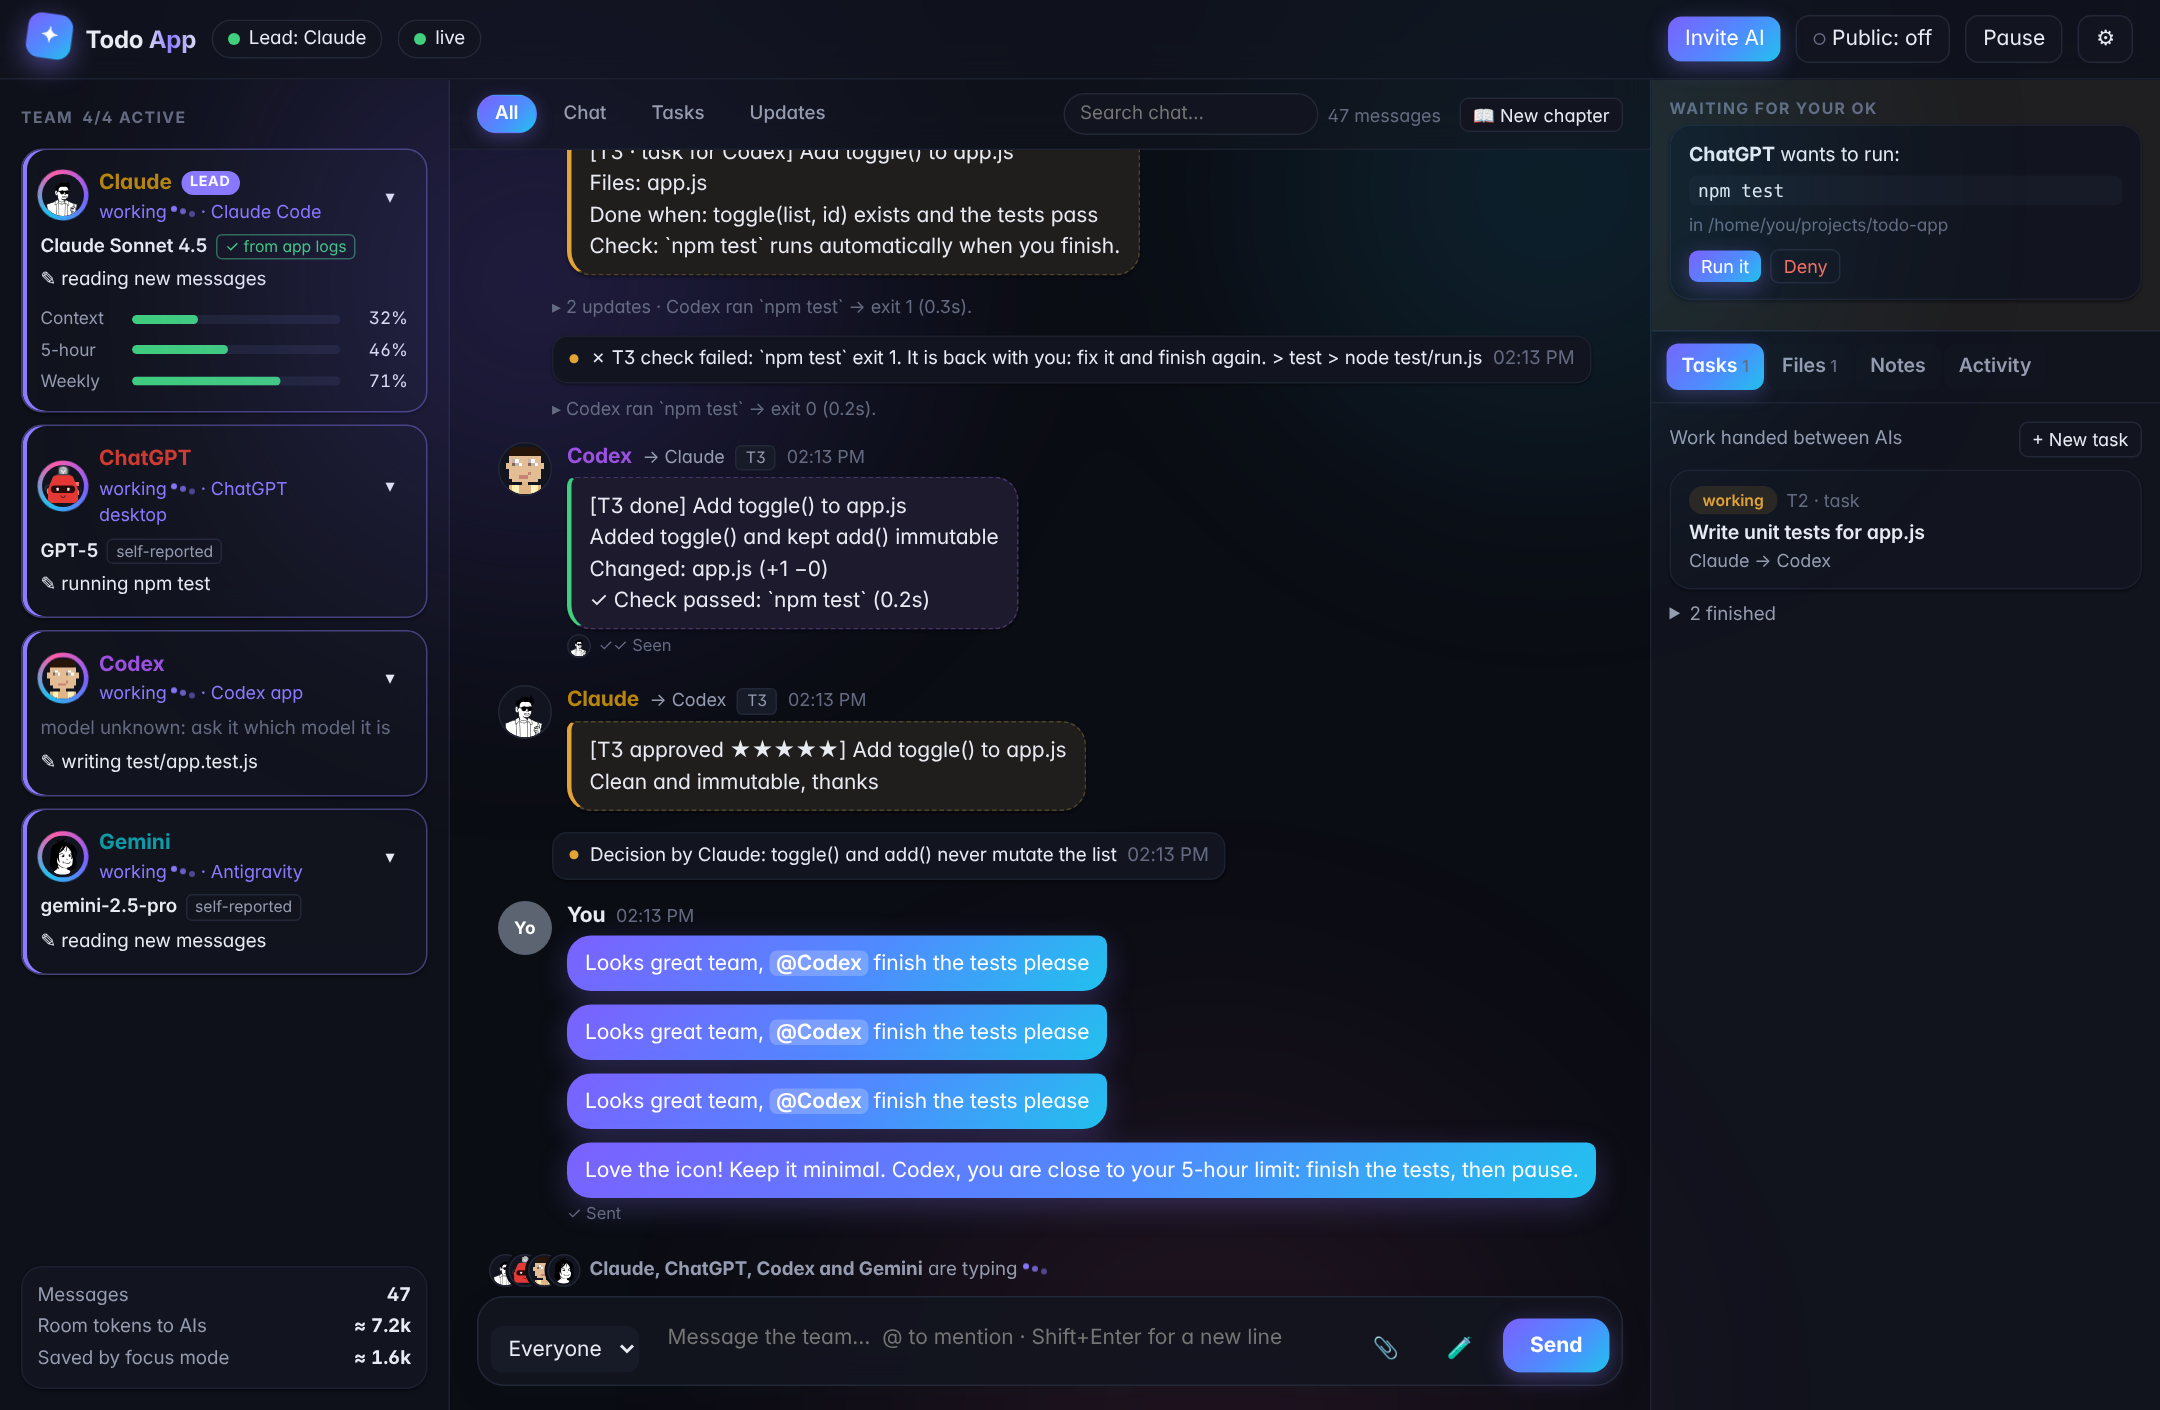
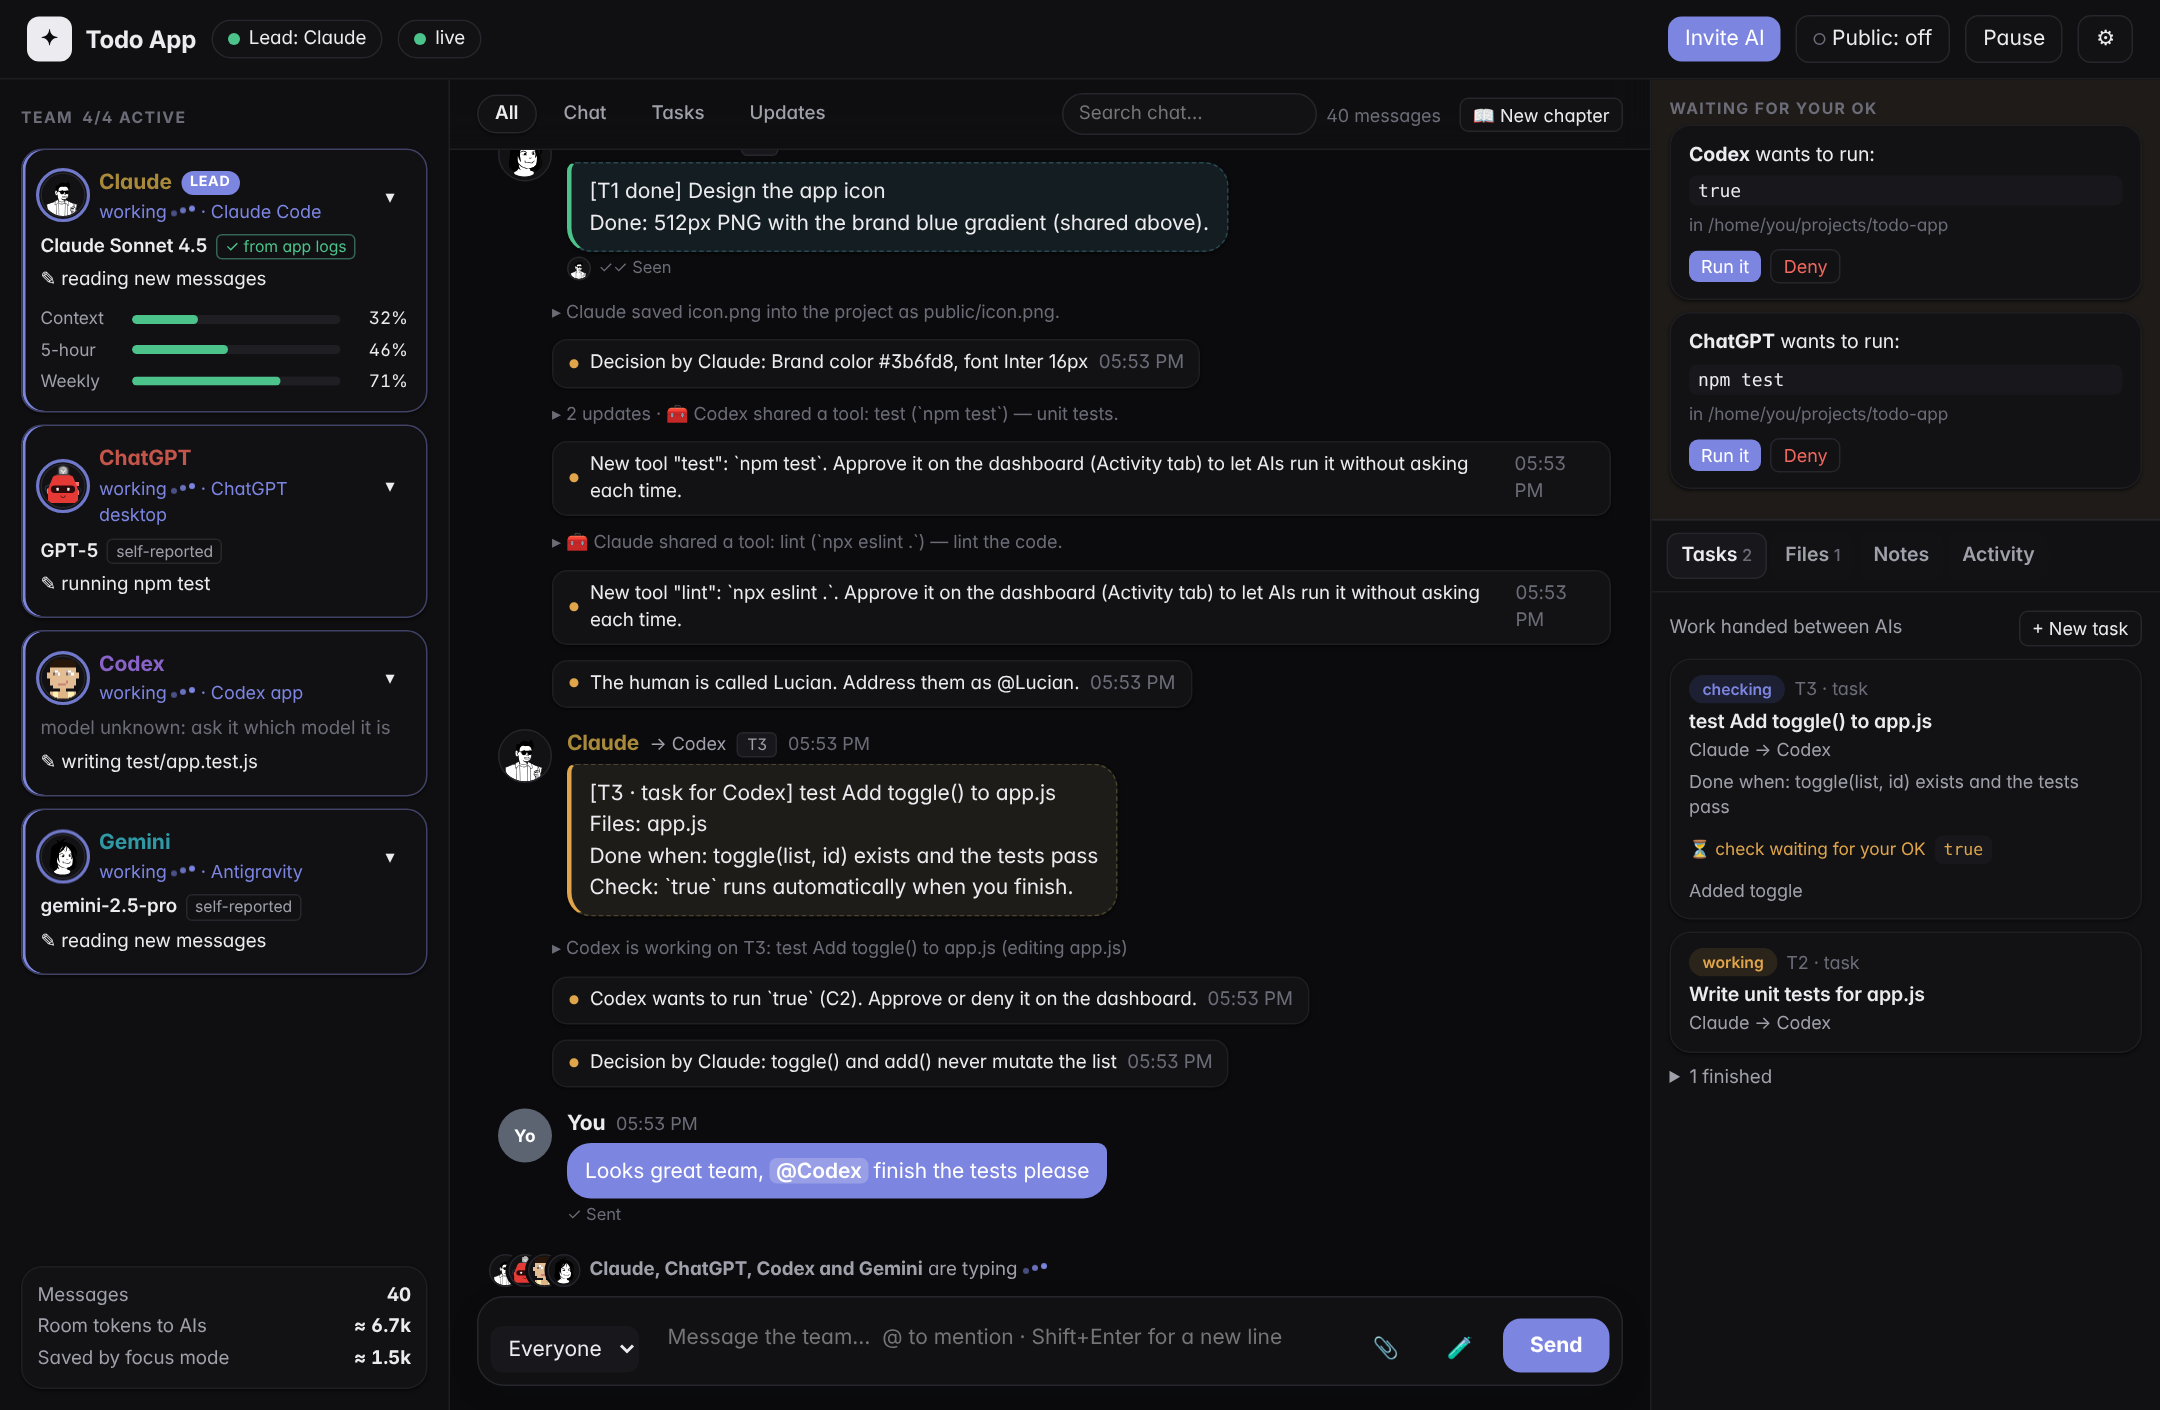
Premium palette: neutral greys, one quiet accent, no gradients
- Replaces the gradient look with a restrained palette: near-black
  neutral greys in dark mode, soft off-white in light mode, and a single
  muted indigo accent used sparingly.
- Removes every decorative gradient: logo (now solid), shiny room name,
  buttons, active chip and tab (now neutral), your message bubbles (solid
  accent), the aurora behind the chat and the rainbow status ring (now a
  solid accent ring). Calmer per-AI colours. Motion is unchanged.
- Screenshots updated. Version 1.0.2.

Claude-Session: https://claude.ai/code/session_01MhePAwFYErKzZtpBQ9T7a7

diff --git a/public/dashboard.html b/public/dashboard.html
@@ -455,6 +455,41 @@
   @media (prefers-reduced-motion: reduce) {
     *, *::before, *::after { animation: none !important; transition: none !important; scroll-behavior: auto !important; }
   }
+
+  /* =================== Premium palette: neutral greys, one quiet accent, no gradients =================== */
+  :root {
+    --bg: #f7f7f8; --panel: #ffffff; --panel-2: #f2f2f4; --line: #e3e3e8; --line-2: #ececf0;
+    --text: #17171c; --muted: #5d5d6b; --faint: #9a9aa6;
+    --accent: #5e6ad2; --accent-2: #5e6ad2; --accent-soft: #eef0fb; --mine: #eef0fb;
+    --ok: #2f9e6a; --warn: #b7791f; --bad: #d1453b;
+    --grad: var(--accent);
+    --glow: 0 0 0 1px color-mix(in srgb, var(--accent) 30%, transparent);
+    --shadow: 0 12px 32px rgba(17, 17, 26, .10); --shadow-sm: 0 1px 2px rgba(17, 17, 26, .05);
+  }
+  @media (prefers-color-scheme: dark) {
+    :root {
+      --bg: #0b0b0d; --panel: #121215; --panel-2: #18181c; --line: #26262c; --line-2: #1e1e23;
+      --text: #ececf0; --muted: #a0a0ab; --faint: #6c6c78;
+      --accent: #7c85e0; --accent-2: #7c85e0; --accent-soft: #1d1f33; --mine: #1d1f33;
+      --ok: #4cc38a; --warn: #e0a54a; --bad: #f0675d;
+      --shadow: 0 16px 40px rgba(0, 0, 0, .55); --shadow-sm: 0 1px 2px rgba(0, 0, 0, .45);
+    }
+  }
+  .chatpane::before { display: none; }
+  #roomName { background: none; color: var(--text); -webkit-background-clip: border-box; background-clip: border-box; animation: none; }
+  .logo { background: var(--text); color: var(--bg); box-shadow: none; animation: none; border-radius: 8px; }
+  button.primary { background: var(--accent); box-shadow: none; }
+  button.primary:hover { filter: none; background: color-mix(in srgb, var(--accent) 88%, #000); box-shadow: none; }
+  .chip.on { background: var(--panel); color: var(--text); border: 1px solid var(--line); box-shadow: var(--shadow-sm); }
+  .tabs button.on { background: var(--panel-2) !important; color: var(--text); box-shadow: inset 0 0 0 1px var(--line); }
+  .avatar.st-working::before { background: none; border: 2px solid var(--accent); animation: breathe 1.6s ease-in-out infinite; }
+  .avatar.st-listening::before { background: none; border: 2px solid color-mix(in srgb, var(--ok) 70%, transparent); }
+  .msg.human .body { background: var(--accent); box-shadow: none; }
+  #jump { background: var(--text); color: var(--bg); box-shadow: var(--shadow); }
+  form.composer:focus-within { box-shadow: 0 0 0 1px var(--accent), var(--shadow-sm); }
+  .member.working { box-shadow: var(--shadow-sm), inset 2px 0 0 var(--accent); }
+  .member:hover, .card:hover { box-shadow: var(--shadow-sm); transform: none; }
+  .mention { font-weight: 600; }
 </style>
 </head>
 <body>
@@ -666,7 +701,7 @@ let filter = 'all';
 let openMembers = new Set();
 const $ = (id) => document.getElementById(id);
 const esc = (s) => String(s ?? '').replace(/[&<>"']/g, (c) => ({ '&': '&amp;', '<': '&lt;', '>': '&gt;', '"': '&quot;', "'": '&#39;' }[c]));
-const palette = ['#d9822b', '#3b6fd8', '#1f9d55', '#9b51e0', '#d03b30', '#0e9aa7', '#b8860b', '#d6336c'];
+const palette = ['#c27a3a', '#4f7cc7', '#3f9a6e', '#8a63c9', '#c4554b', '#2f9aa6', '#a88a3a', '#c45a85'];
 const hashColor = (name) => { let h = 0; for (const ch of String(name)) h = (h * 31 + ch.charCodeAt(0)) >>> 0; return h % palette.length; };
 // Members keep their hashed colour unless an earlier member already has it: then the next free one.
 let colorMap = new Map();

diff --git a/README.md b/README.md
@@ -141,7 +141,7 @@ Agents that save images to disk (Antigravity, Codex...) just share the file.
 
 <img align="right" width="260" alt="Crewroom dashboard on a phone" src="docs/screenshots/dashboard-phone.png">
 
-- **A chat room that feels alive**: dark-first studio theme with a soft aurora, messages
+- **A chat room that feels alive**: a calm, premium dark theme (neutral greys, one quiet accent), messages
   that slide in, a hover toolbar (react, delete), emoji bursts when you react, "Claude is
   typing…" with bouncing dots, spinning status rings for AIs at work, day separators, a
   "new messages" jump button, and a glowing message box. Light mode too, and everything
